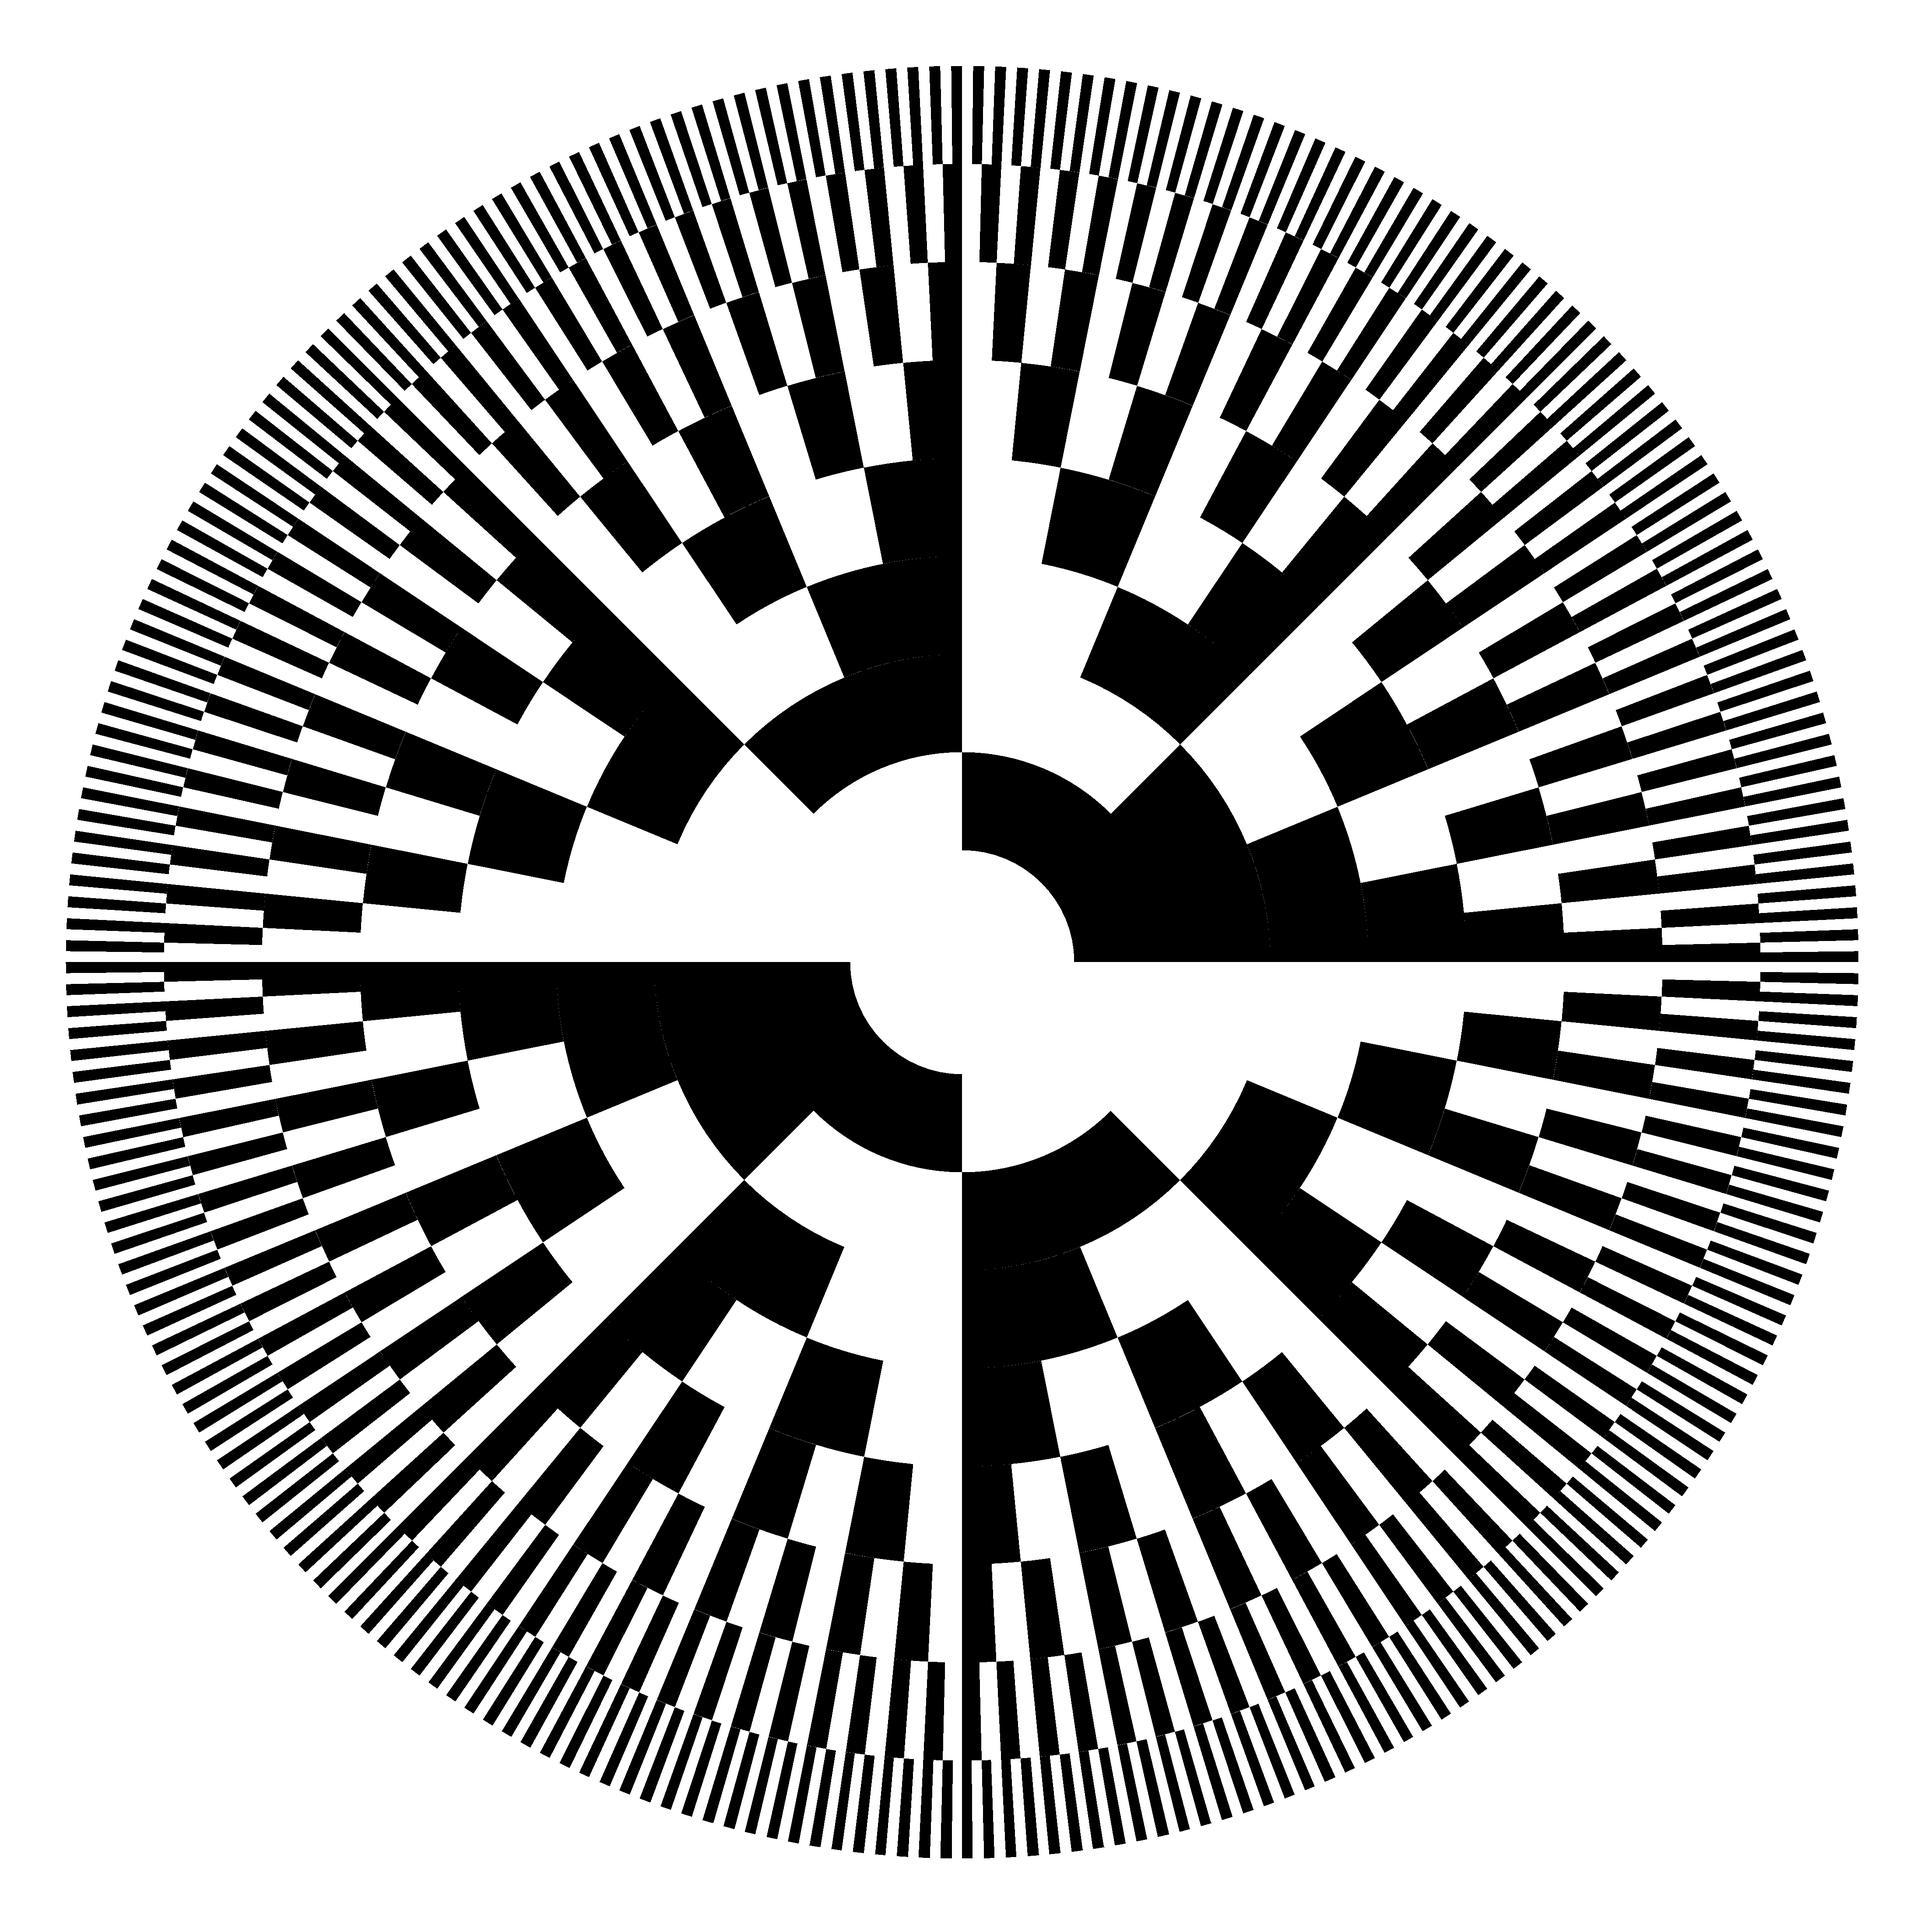
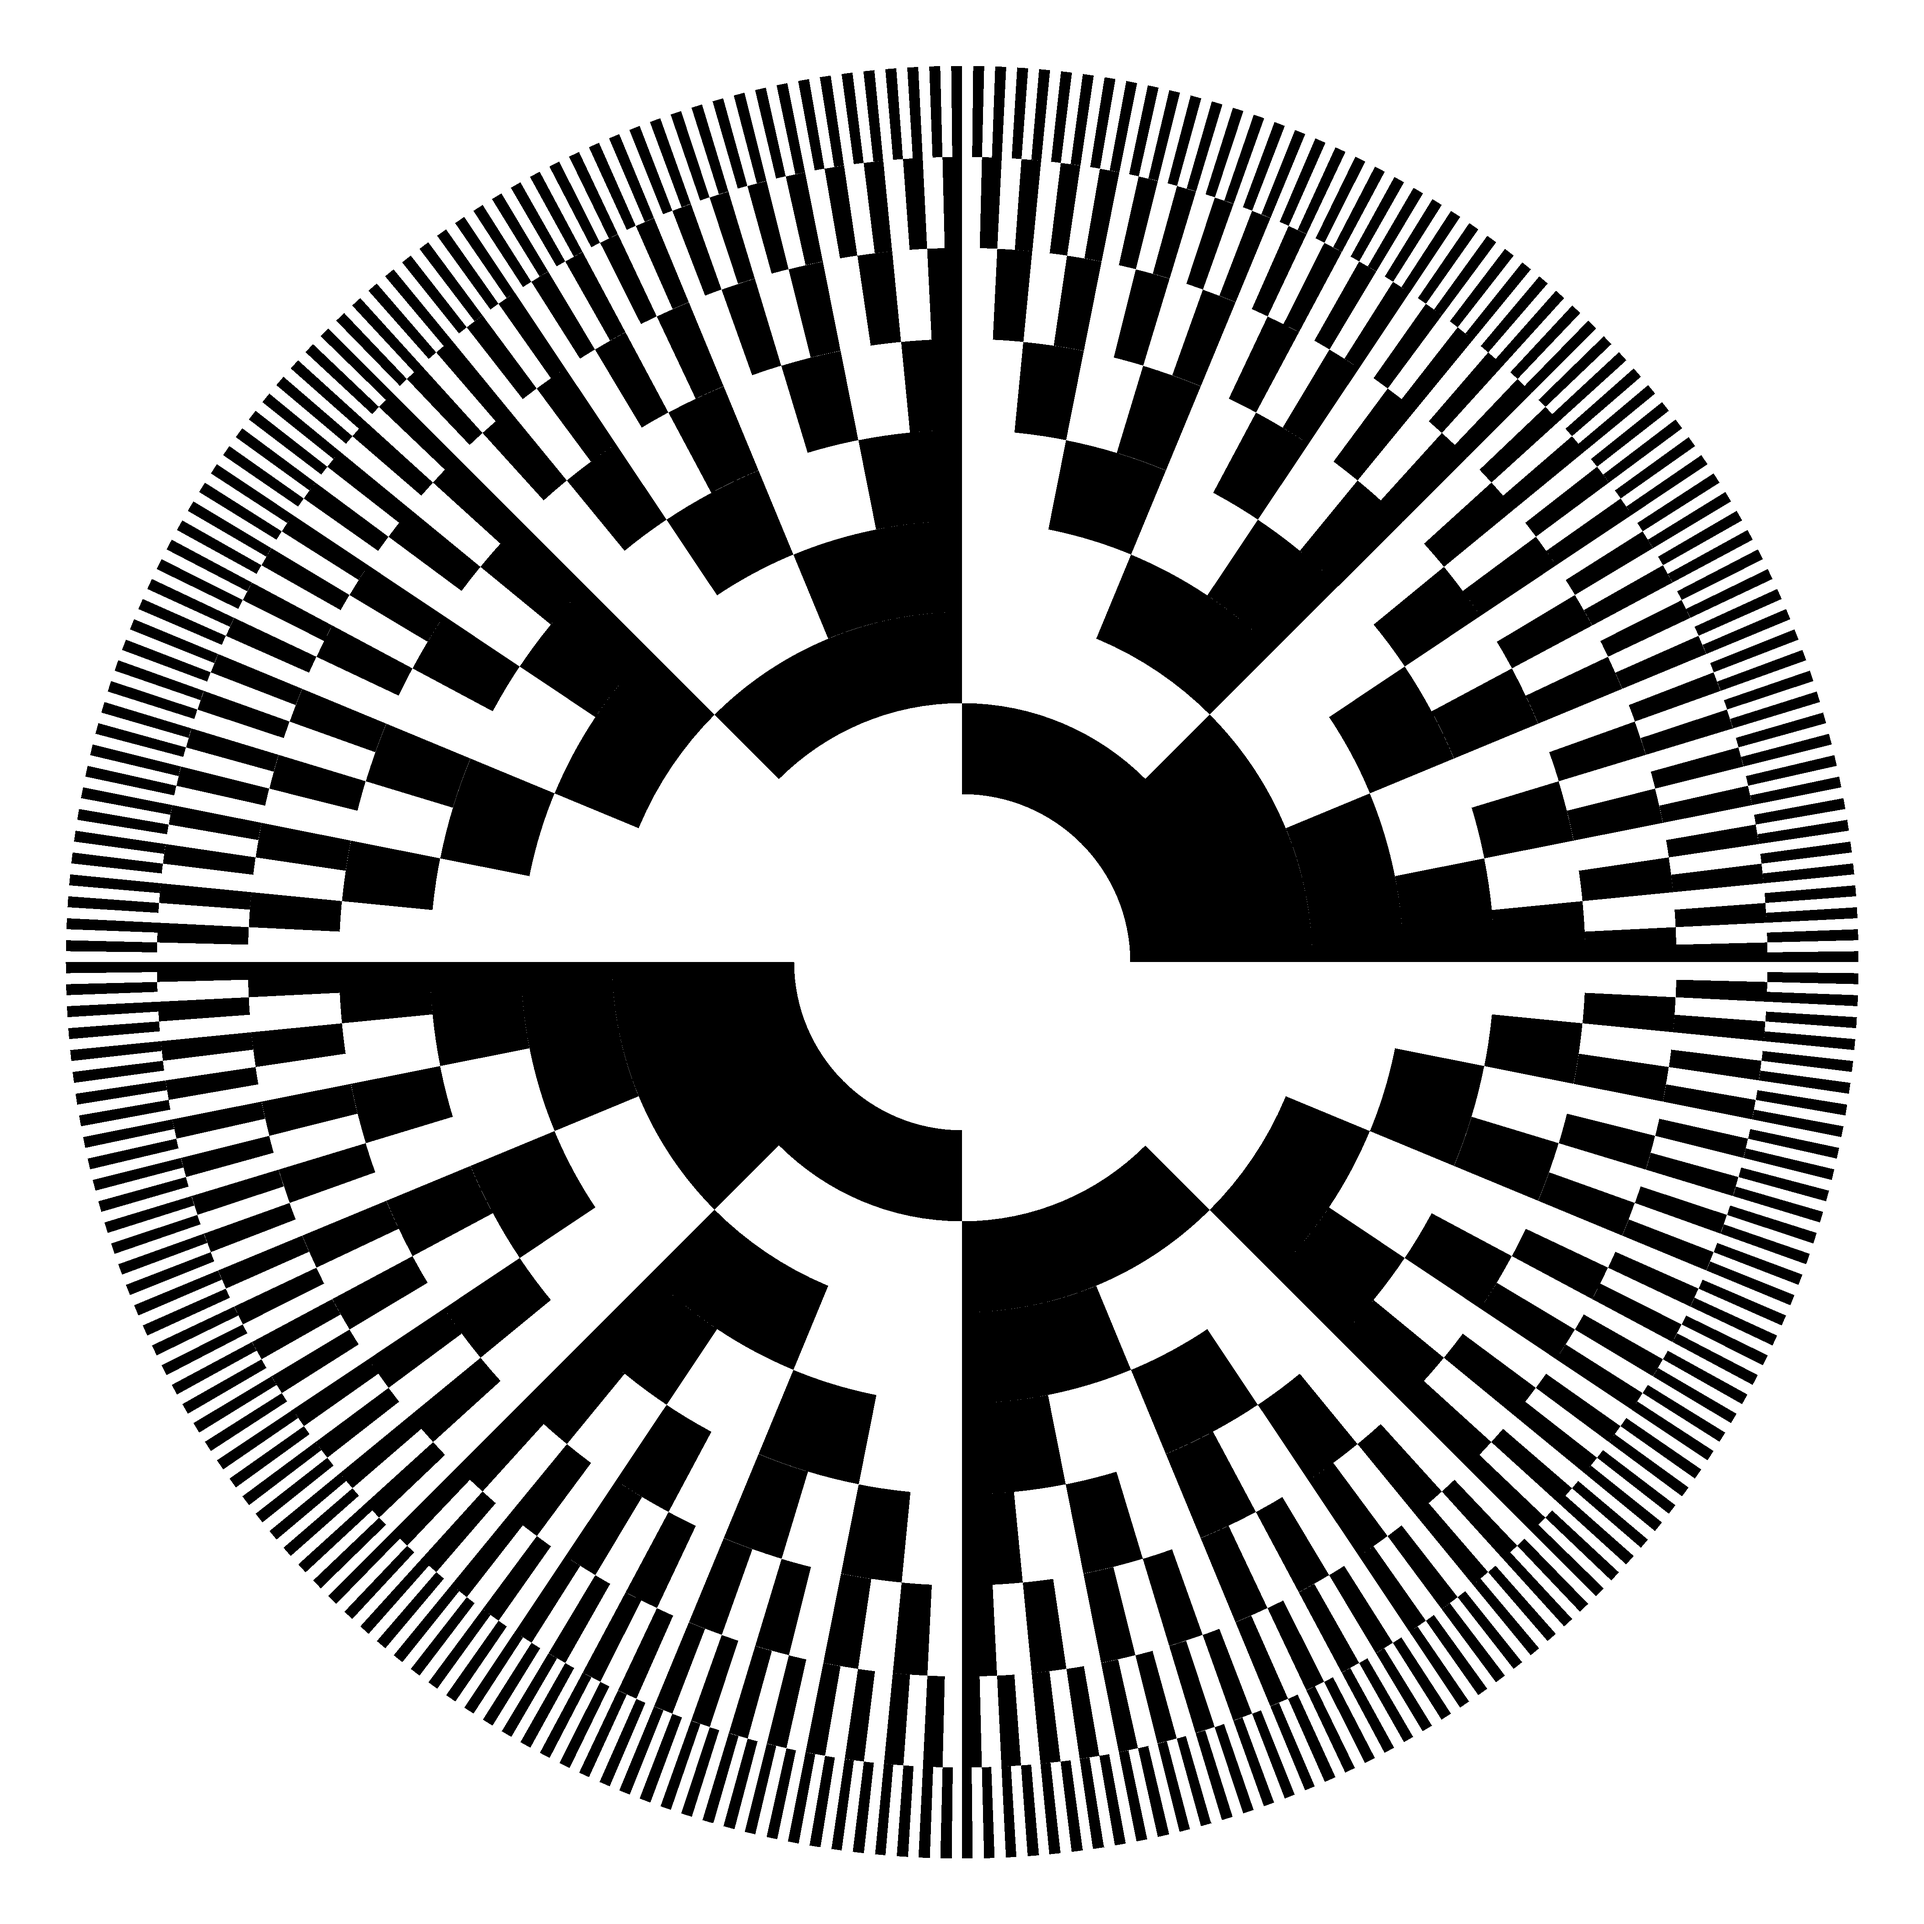
Increase center spacing

diff --git a/Strobodisk.java b/Strobodisk.java
@@ -22,7 +22,7 @@ public class Strobodisk {
   private static final int WIDTH = DIAMETER+(MARGIN*2);
   private static final int HEIGHT = WIDTH;
   private static final int NUM_OCTAVES = 8;
-  private static final int INNER_DIAMETER = 512;
+  private static final int INNER_DIAMETER = 764;
   private static final int BAR_HEIGHT = ((DIAMETER-INNER_DIAMETER)/NUM_OCTAVES)/2;
   private static final int CENTER_X = WIDTH/2;
   private static final int CENTER_Y = HEIGHT/2;
